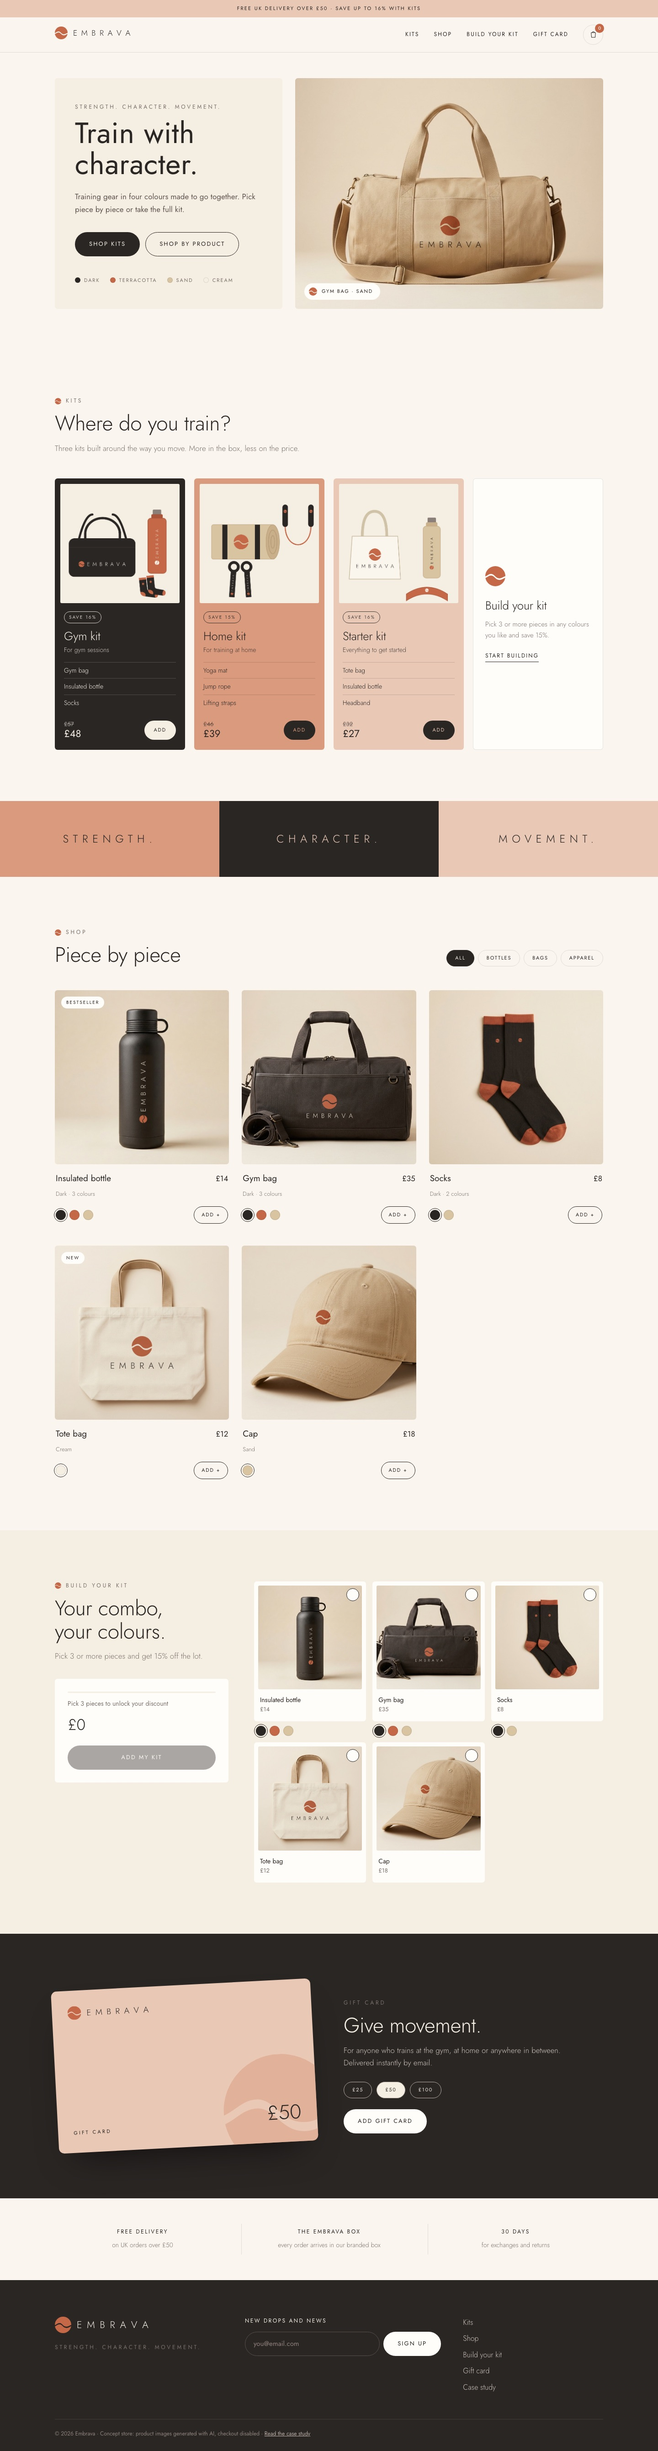
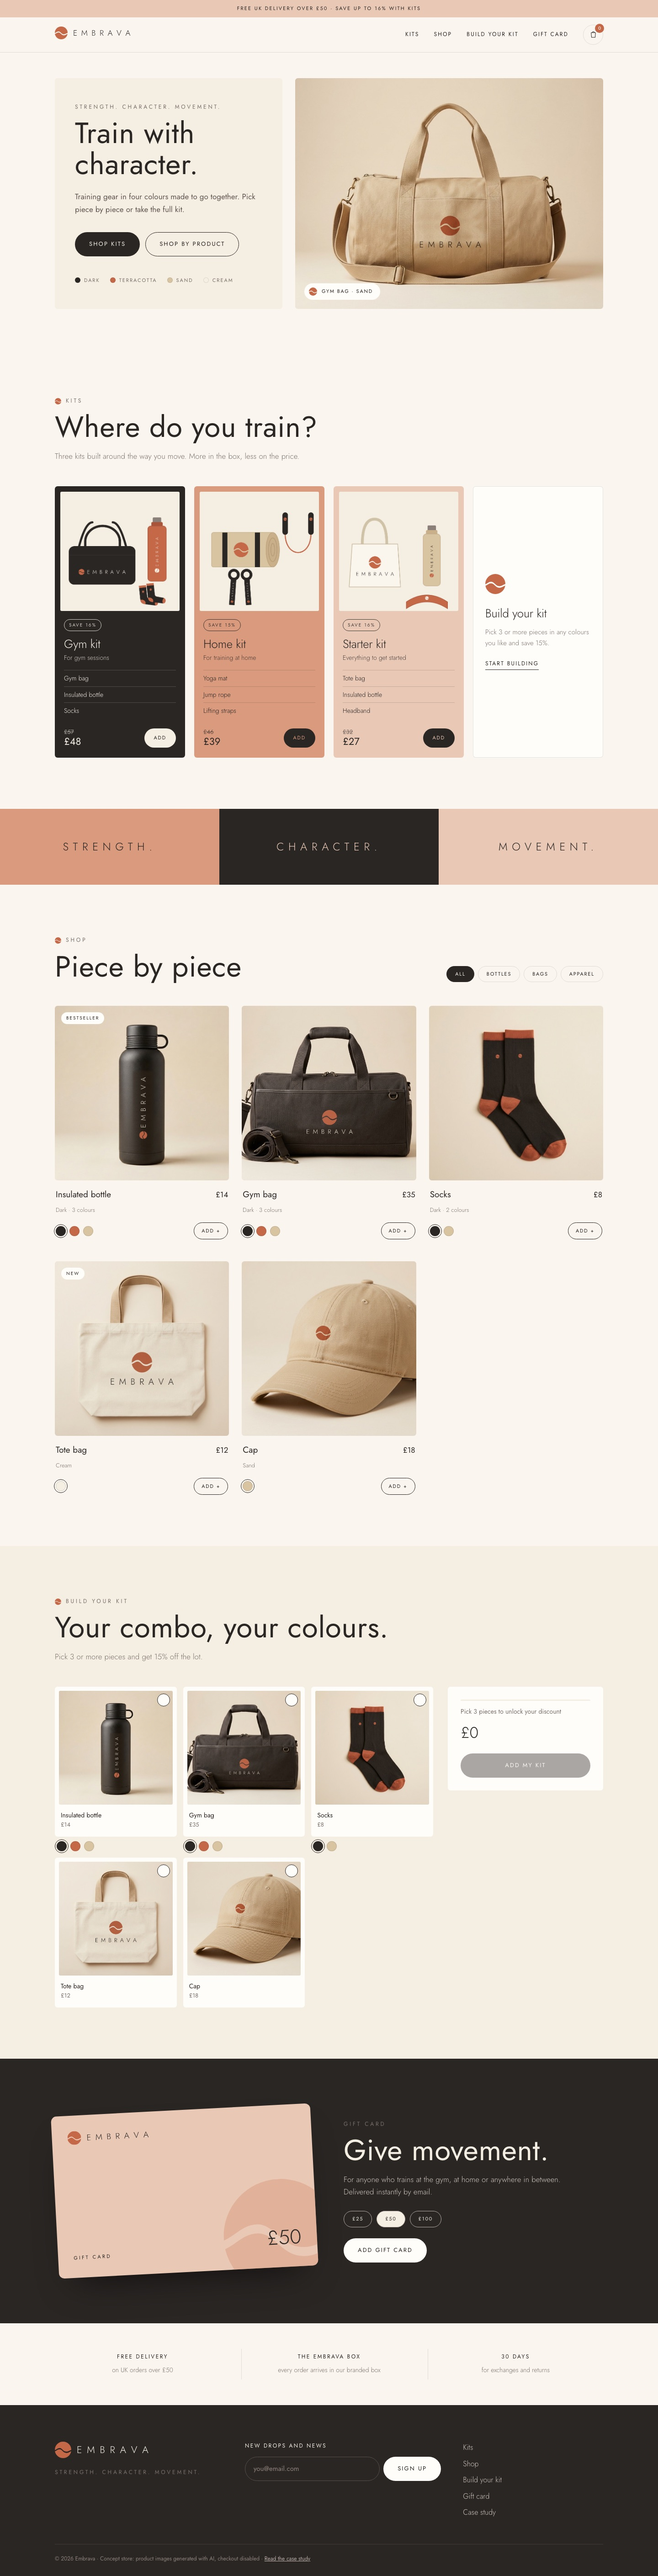
Actualiza las capturas de Embrava con los títulos de sección unificados

diff --git a/work/embrava.html b/work/embrava.html
@@ -67,7 +67,7 @@
           <div class="browser-url">andrea-mmo.github.io/embrava</div>
         </div>
         <div class="browser-view" tabindex="0" aria-label="Scrollable preview of the Embrava store on desktop">
-          <img src="../images/embrava-long.jpg" alt="Desktop view of the Embrava homepage: hero, kits, brand band, product grid, build your kit, gift card and footer" width="1440" height="5364">
+          <img src="../images/embrava-long.jpg" alt="Desktop view of the Embrava homepage: hero, kits, brand band, product grid, build your kit, gift card and footer" width="1440" height="5637">
         </div>
         <figcaption>Desktop. Scroll inside the frame to see the full homepage.</figcaption>
       </figure>
